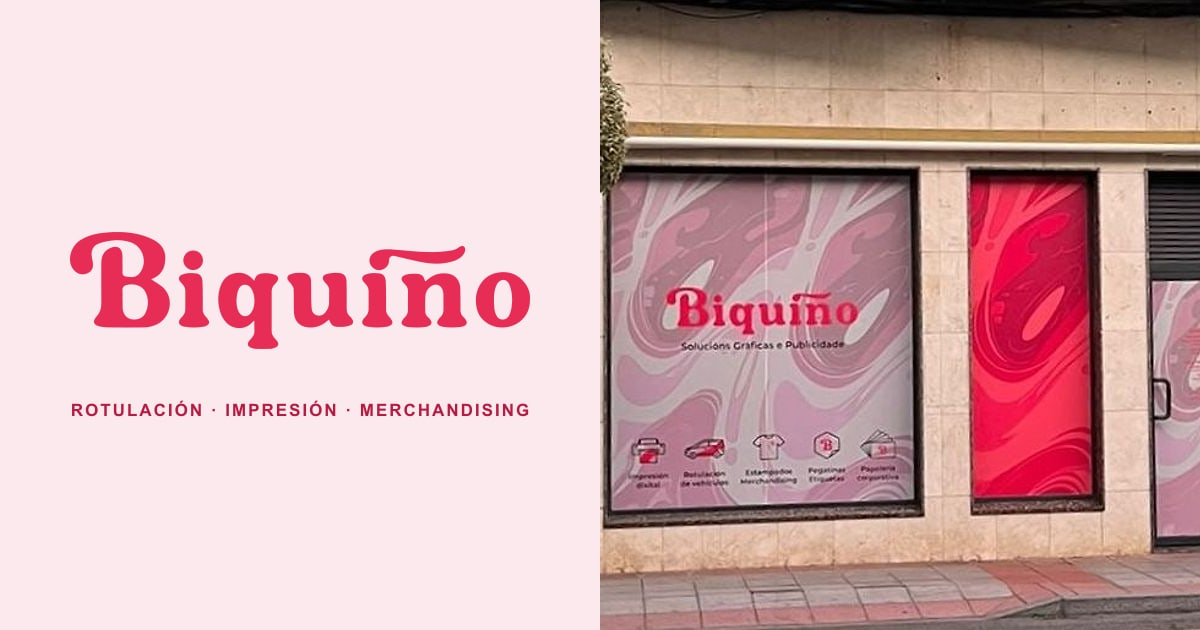
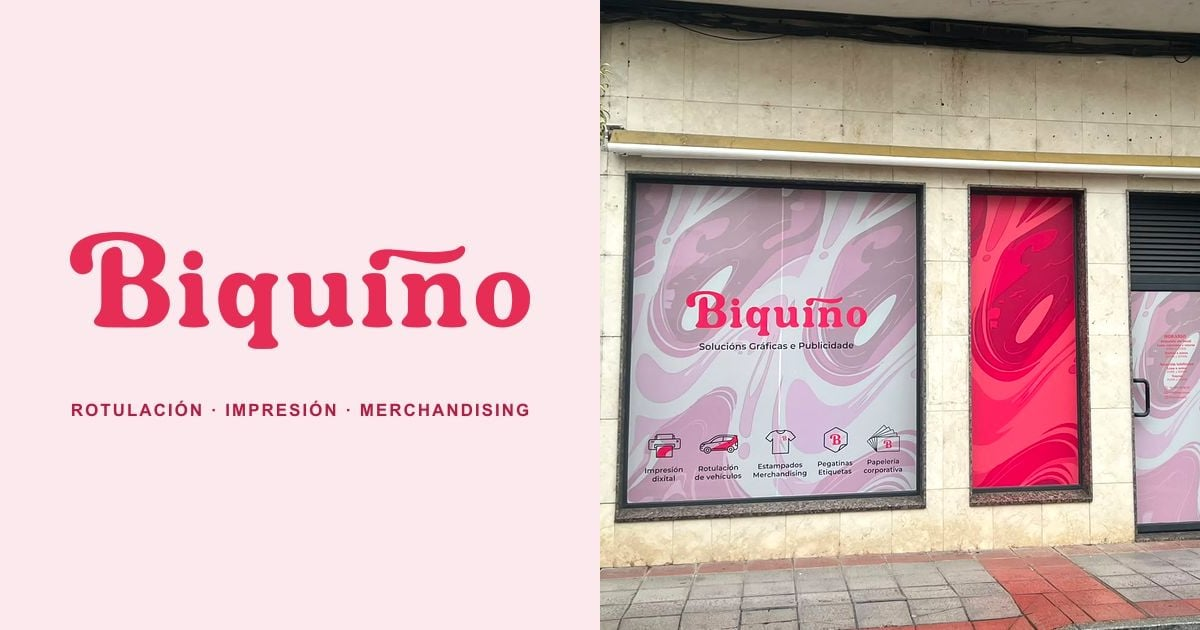
feat(fotos): new facade photo for hero and share image, studio photo in about section

diff --git a/src/components/aboutSection/AboutSection.jsx b/src/components/aboutSection/AboutSection.jsx
@@ -2,7 +2,7 @@ import aboutData from "../../data/aboutData";
 import styles from "./AboutSection.module.scss";
 
 export default function AboutSection() {
-  const { eyebrow, title, paragraphs, timeline } = aboutData;
+  const { eyebrow, title, paragraphs, image, timeline } = aboutData;
 
   return (
     <section className={styles.about} aria-labelledby="about-title">
@@ -17,6 +17,19 @@ export default function AboutSection() {
               {text}
             </p>
           ))}
+          {image && (
+            <img
+              src={image.src}
+              srcSet={image.srcSet}
+              sizes="(min-width: 1024px) 560px, 100vw"
+              alt={image.alt}
+              className={styles.image}
+              width={960}
+              height={720}
+              loading="lazy"
+              decoding="async"
+            />
+          )}
         </div>
 
         <ol className={styles.timeline}>

diff --git a/src/data/aboutData.js b/src/data/aboutData.js
@@ -1,5 +1,13 @@
+import localImg480 from "../assets/images/nosotros-local-480.webp";
+import localImg960 from "../assets/images/nosotros-local-960.webp";
+
 const aboutData = {
   eyebrow: "Nosotros",
+  image: {
+    src: localImg960,
+    srcSet: `${localImg480} 480w, ${localImg960} 960w`,
+    alt: "Interior del estudio de Biquiño en Verín: zona de atención con pared roja y, al fondo, el taller con el plóter de impresión",
+  },
   title: "Una idea de 2024 con más de diez años de oficio detrás",
   paragraphs: [
     "Biquiño Studio empezó en 2024 como una idea y unos primeros encargos. En 2026 da el salto: se profesionaliza y abre su espacio en Verín (Ourense), desde donde trabaja para toda España.",

diff --git a/src/components/aboutSection/AboutSection.module.scss b/src/components/aboutSection/AboutSection.module.scss
@@ -30,6 +30,16 @@
   margin: 0 0 v.$space-md;
 }
 
+.image {
+  display: block;
+  width: 100%;
+  height: auto;
+  aspect-ratio: 4 / 3;
+  object-fit: cover;
+  border-radius: v.$radius-lg;
+  margin-top: v.$space-sm;
+}
+
 // Línea de tiempo vertical: el año en un círculo y una línea que une los hitos.
 .timeline {
   list-style: none;
